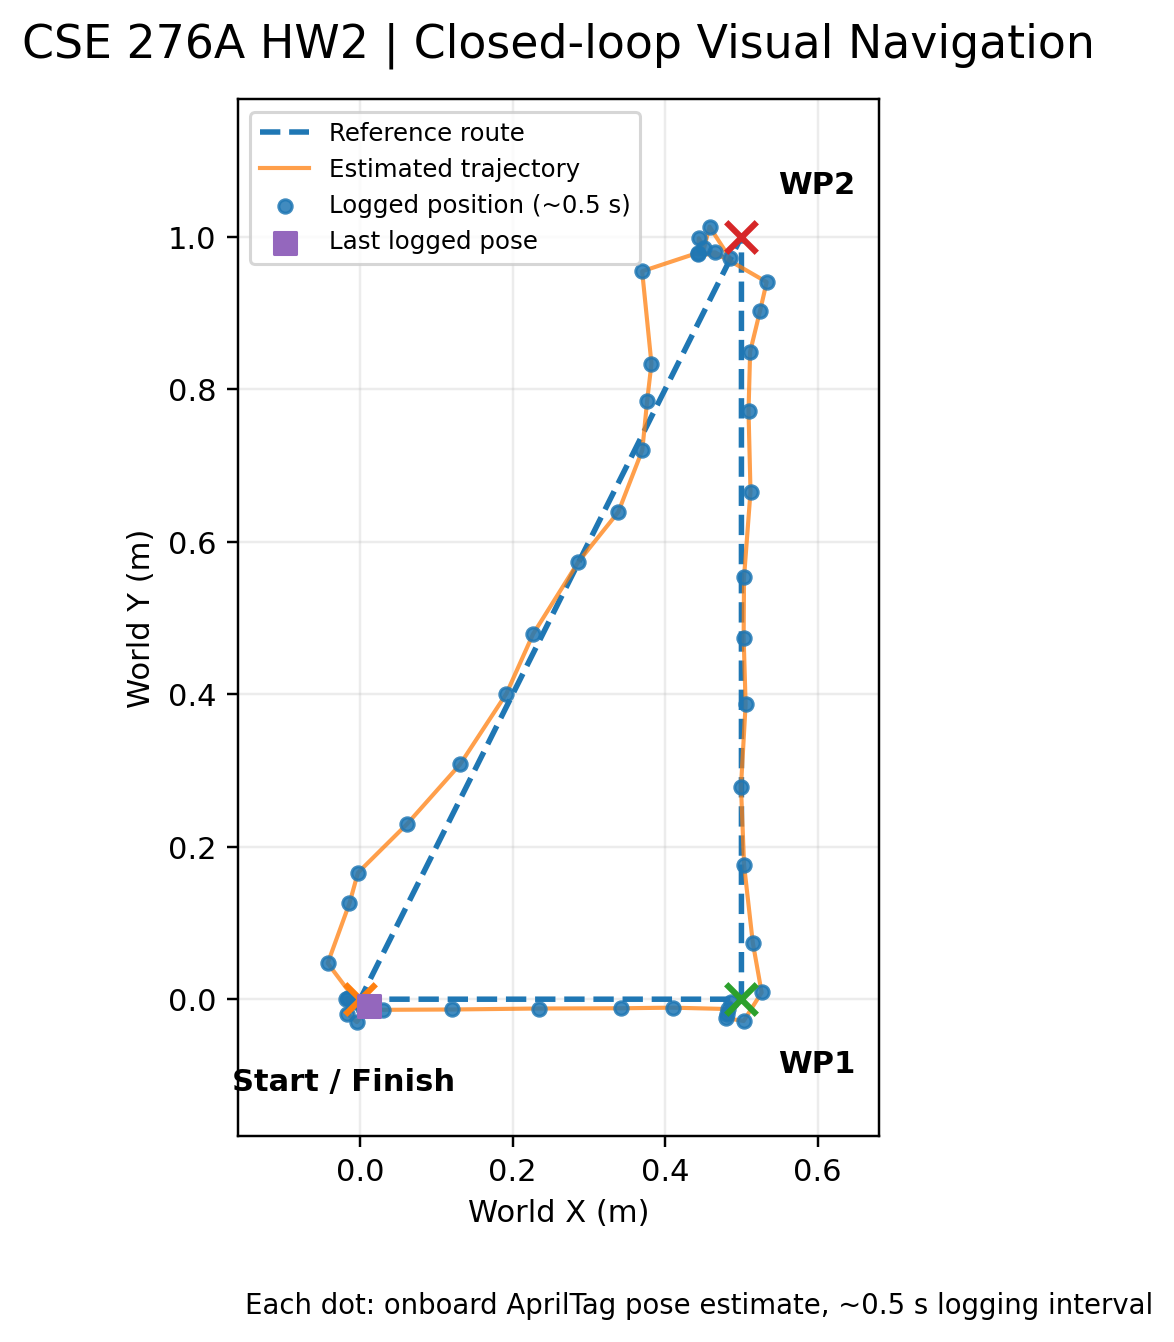
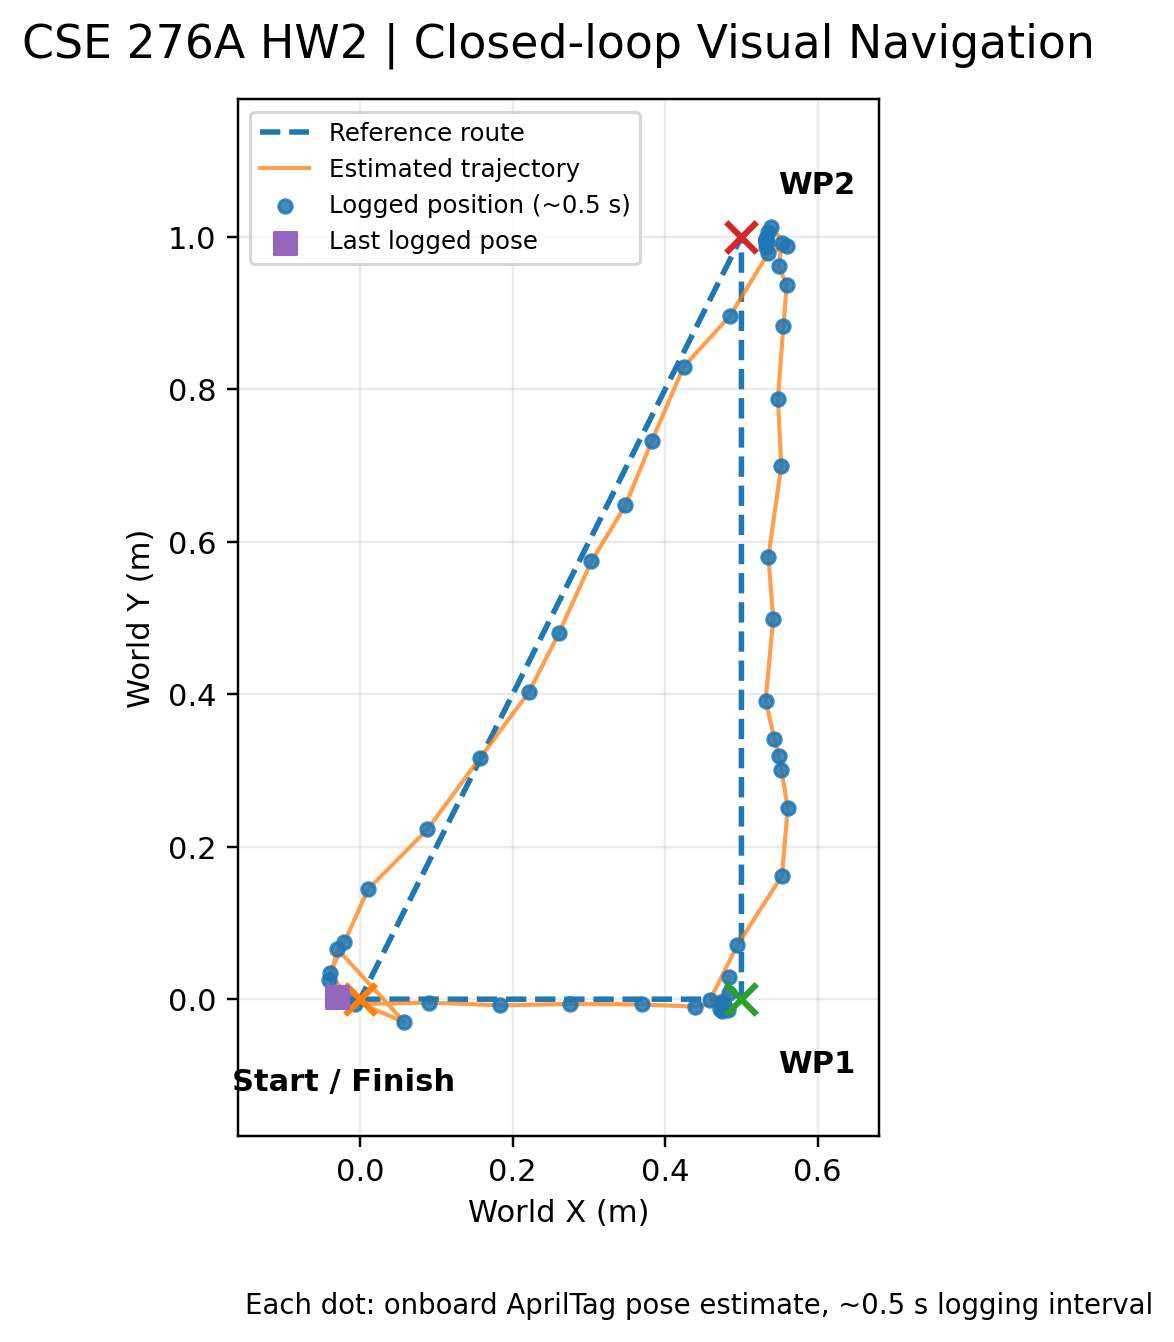
implement new ver with wait 2s at each wp, update relevant files

Changed region(s): [[0.276, 0.1528, 0.6746, 0.7638], [0.4906, 0.3972, 0.5213, 0.4277]]

diff --git a/homework2/visual_navigation.py b/homework2/visual_navigation.py
@@ -43,6 +43,7 @@ DRIVE_SLOW = 0.115                    # used near a waypoint
 SPIN_MAX_PULSE_S = 0.18
 SPIN_MIN_PULSE_S = 0.10
 SPIN_SETTLE_S = 0.25
+WP_HOLD_SECONDS = 2.0  # Stop for 2 seconds after reaching each waypoint
 # Avoid in-place corrections caused by a fluctuating bearing to a very close
 # waypoint (particularly WP2 after the 1 m northward segment).
 APPROACH_DISTANCE_M = 0.23
@@ -102,7 +103,8 @@ class VisualNavigation(Node):
         self.pose_seq = 0
         self.last_fused_sample = 0.0
         self.target_index = 1          # start point is already waypoint 0
-        self.phase = 'TRAVEL'           # TRAVEL -> ALIGN -> next waypoint
+        self.phase = 'TRAVEL'           # TRAVEL -> ALIGN -> HOLD -> next waypoint
+        self.hold_until = 0.0
         self.armed = False
         self.ready_since = None
         self.start_at = None
@@ -224,8 +226,17 @@ class VisualNavigation(Node):
                     # an implausible backwards estimate must not cause the
                     # controller to keep turning on a false +69 deg reading.
                     if yaw_delta < -math.radians(10):
-                        rejected.append((tag_id, 'reverse yaw during WP2 CCW align'))
-                        continue
+                        # Allow a bounded clockwise correction only if the
+                        # controller actually commanded a clockwise spin.
+                        clockwise_correction = (
+                            self.last_spin_direction == -1
+                            and now - self.last_spin_at < 3.0
+                            and abs(yaw_delta) <= max_yaw_jump
+                        )
+
+                        if not clockwise_correction:
+                            rejected.append((tag_id, 'unexplained reverse yaw during WP2 align'))
+                            continue
                     if math.hypot(x - self.waypoints[2][0],
                                   y - self.waypoints[2][1]) > REACQUIRE_MAX_POSITION_M:
                         rejected.append((tag_id, 'outside WP2 vicinity'))
@@ -349,6 +360,24 @@ class VisualNavigation(Node):
         return self.spin_command
 
     def command_for_waypoint(self, now):
+        # Hold the rover still for 2 seconds after each confirmed waypoint.
+        if self.phase == 'HOLD':
+            if now < self.hold_until:
+                return 0.0, 0.0
+
+            print(f'WP{self.target_index} HOLD COMPLETE: '
+                f'{WP_HOLD_SECONDS:.1f} seconds elapsed.', flush=True)
+
+            if self.target_index == self.stop_after:
+                self.done = True
+                self.phase = 'DONE'
+                print('ROUTE COMPLETE — motors stopped.', flush=True)
+            else:
+                self.target_index += 1
+                self.phase = 'TRAVEL'
+
+            return 0.0, 0.0
+
         # Continue/finish any short turn before changing the movement phase.
         active_spin = self.pending_spin(now)
         if active_spin is not None:
@@ -408,14 +437,16 @@ class VisualNavigation(Node):
             return 0.0, 0.0  # wait for the rover to settle
 
         print(f'REACHED WP{self.target_index}: x={self.pose.x:+.3f} m '
-              f'y={self.pose.y:+.3f} m yaw={math.degrees(self.pose.yaw):+.1f} deg', flush=True)
-        if self.target_index == self.stop_after:
-            self.done = True
-            self.phase = 'DONE'
-            print('ROUTE COMPLETE — motors stopped.', flush=True)
-        else:
-            self.target_index += 1
-            self.phase = 'TRAVEL'
+            f'y={self.pose.y:+.3f} m yaw={math.degrees(self.pose.yaw):+.1f} deg', flush=True)
+
+        # Stop the rover for 2 seconds before proceeding to the next waypoint.
+        self.phase = 'HOLD'
+        self.hold_until = now + WP_HOLD_SECONDS
+
+        print(f'WP{self.target_index} HOLD START: '
+            f'motors stopped for {WP_HOLD_SECONDS:.1f} seconds.',
+            flush=True)
+
         return 0.0, 0.0
 
     def tick(self):
